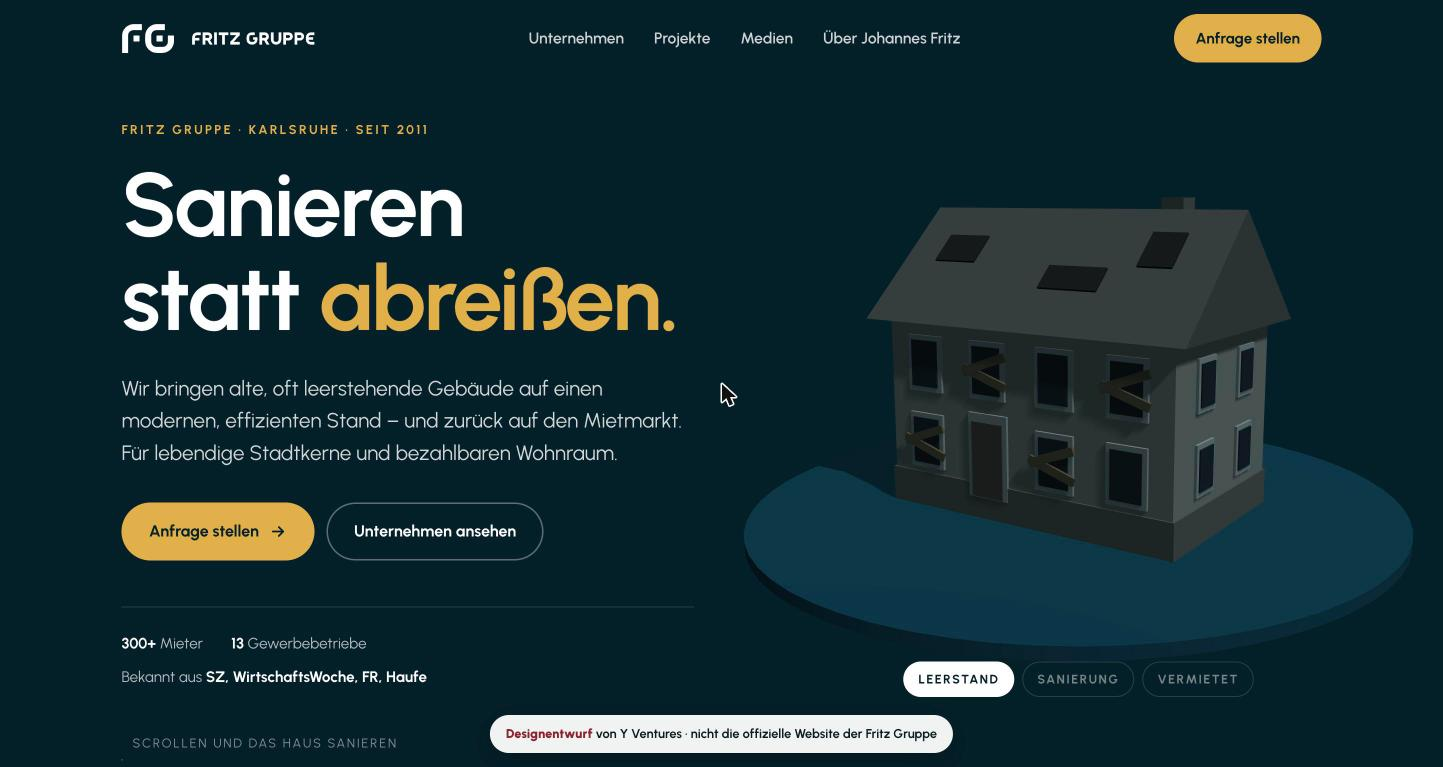
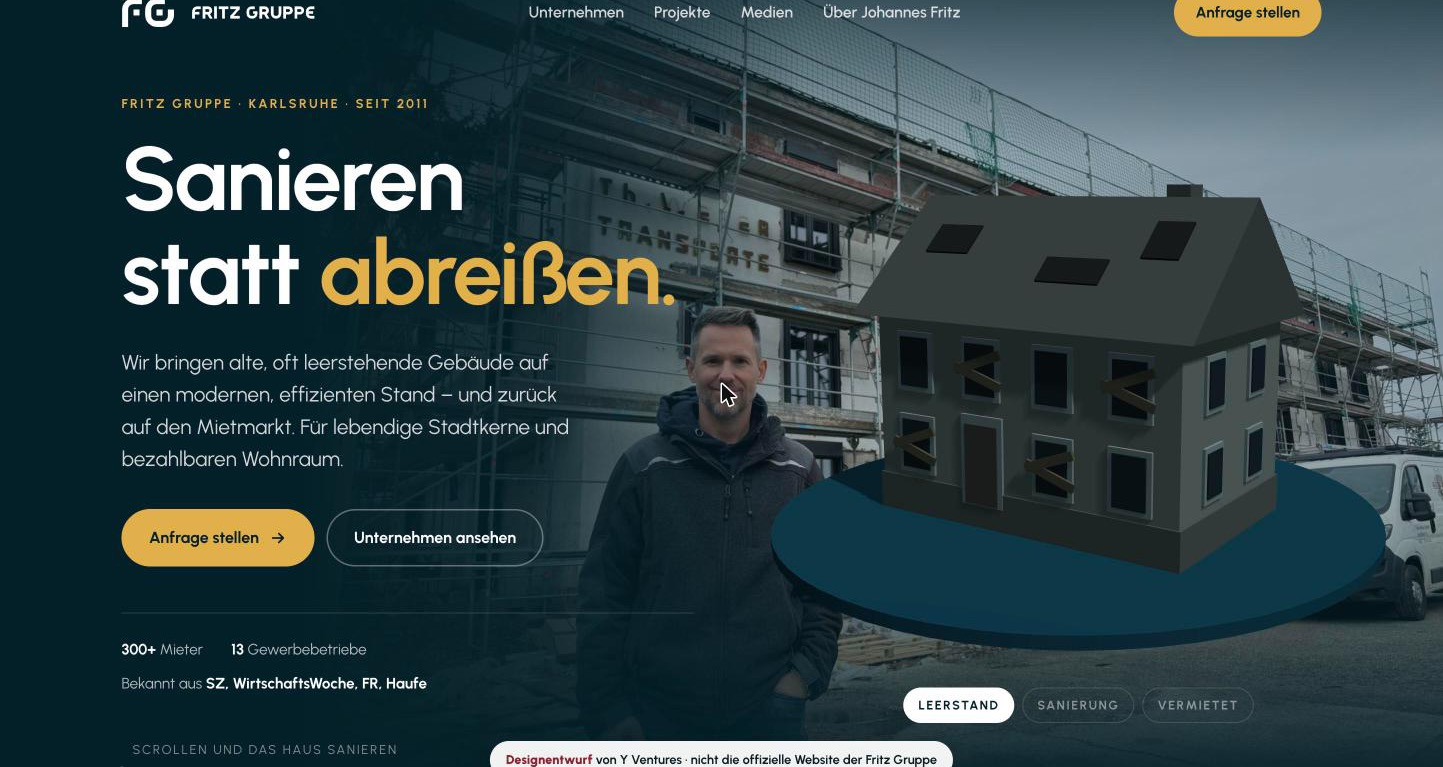
Entwurf: Startfoto als Hintergrund hinter Ueberschrift und 3D-Haus

diff --git a/vorschau/index.html b/vorschau/index.html
@@ -45,14 +45,16 @@ p{text-wrap:pretty}
 
 /* Story: Hero + 3D */
 .story{position:relative;display:grid;grid-template-columns:minmax(0,1fr) minmax(0,1.05fr);gap:20px}
-.story-text{padding-left:max(20px,calc((100vw - 1200px)/2))}
-.stage{position:sticky;top:0;height:100vh;height:100svh}
+.story-text{padding-left:max(20px,calc((100vw - 1200px)/2));position:relative;z-index:1}
+.herobg{position:absolute;top:0;left:21%;right:0;height:100vh;height:100svh;z-index:0;background:url(assets/hero-baustelle.jpg) 50% 30%/cover no-repeat;pointer-events:none}
+.herobg::after{content:"";position:absolute;inset:0;background:linear-gradient(0deg,var(--petrol) 0%,rgba(4,32,41,0) 34%),linear-gradient(180deg,rgba(4,32,41,.75) 0%,rgba(4,32,41,0) 22%),linear-gradient(90deg,var(--petrol) 0%,rgba(4,32,41,.84) 22%,rgba(4,32,41,.34) 44%,rgba(4,32,41,.4) 100%)}
+.stage{position:sticky;top:0;height:100vh;height:100svh;z-index:1}
 .stage canvas{width:100%;height:100%;display:block}
 .stage-label{position:absolute;left:50%;bottom:70px;transform:translateX(-50%);display:flex;gap:8px;font-size:.78rem;font-weight:700;letter-spacing:.12em;text-transform:uppercase}
 .stage-label span{padding:7px 14px;border-radius:999px;border:1px solid var(--line);color:rgba(255,255,255,.45);transition:all .4s;white-space:nowrap}
 .stage-label span.on{background:#fff;color:var(--petrol);border-color:#fff}
 .hero{min-height:100vh;min-height:100svh;display:flex;flex-direction:column;justify-content:center;padding:120px 0 60px}
-.hero p.lead{font-size:clamp(1.1rem,1.5vw,1.3rem);max-width:33em;margin:26px 0 34px;color:rgba(255,255,255,.82)}
+.hero p.lead{font-size:clamp(1.1rem,1.5vw,1.3rem);max-width:24em;text-shadow:0 1px 14px rgba(4,32,41,.7);margin:26px 0 34px;color:rgba(255,255,255,.82)}
 .hero .cta{display:flex;flex-wrap:wrap;gap:12px}
 .hero .proof{display:flex;flex-wrap:wrap;gap:10px 28px;margin-top:46px;padding-top:24px;border-top:1px solid var(--line);font-size:.95rem;color:rgba(255,255,255,.7)}
 .hero .proof b{color:#fff;font-weight:700}
@@ -68,6 +70,9 @@ p{text-wrap:pretty}
 @keyframes hint{0%{transform:scaleY(0);transform-origin:top}50%{transform:scaleY(1);transform-origin:top}51%{transform-origin:bottom}100%{transform:scaleY(0);transform-origin:bottom}}
 @media(max-width:860px){
   .story{display:flex;flex-direction:column}
+  .herobg{left:0;background-position:42% 20%}
+  .herobg::after{background:linear-gradient(0deg,var(--petrol) 0%,rgba(4,32,41,.55) 45%,rgba(4,32,41,.8) 100%)}
+  .hero,.step{position:relative;z-index:1}
   .story-text{display:contents}
   .hero{order:0}.stage{order:1}.step{order:2}
   .stage{height:44svh;top:58px;z-index:2;background:linear-gradient(var(--petrol) 86%,transparent)}
@@ -236,6 +241,7 @@ footer nav{display:flex;gap:24px}
 
 <main id="top">
 <div class="story" id="story">
+  <div class="herobg" aria-hidden="true"></div>
   <div class="story-text">
     <div class="hero">
       <span class="eyebrow">Fritz Gruppe · Karlsruhe · seit 2011</span>
@@ -528,7 +534,7 @@ const house = new THREE.Group();
 scene.add(house);
 const W = 4.6, H = 2.7, D = 2.8;
 
-const ground = new THREE.Mesh(new THREE.CylinderGeometry(4.7, 4.7, .16, 64), mat(0x0e3a47, {flatShading:false}));
+const ground = new THREE.Mesh(new THREE.CylinderGeometry(4.1, 4.1, .16, 64), mat(0x0e3a47, {flatShading:false}));
 ground.position.y = -.08; ground.receiveShadow = true; house.add(ground);
 
 const mWall = mat(0x7a756c), mSockel = mat(0x55514b), mRoof = mat(0x4b4642);
@@ -644,6 +650,7 @@ function size(){
   const narrow = w/h < 1;
   camera.fov = narrow ? 44 : 32;
   camera.position.set(0, narrow ? 4.2 : 4.6, narrow ? 13.5 : 14.5);
+  house.position.x = narrow ? 0 : 1.1;
   camera.lookAt(0, 1.55, 0);
   camera.updateProjectionMatrix();
 }

diff --git a/index.html b/index.html
@@ -173,7 +173,7 @@ footer p + p{margin-top:8px}
   <div class="sec-head"><p class="label">Entwurf</p><h2>Fertig gebaut: Sanieren statt abreißen, zum Anfassen</h2>
   <p>Ihre Philosophie wird zur Hauptsache. Beim Scrollen verwandelt sich ein leerstehender Altbau Schritt für Schritt: Gerüst, neue Fassade, Fensterläden, Solaranlage, Licht in den Fenstern. Alle Texte, Zahlen und Fotos stammen von Ihrer heutigen Seite.</p></div>
   <div class="pair">
-    <figure><img src="img/entwurf-start.jpg" alt="Entwurf: Startbildschirm mit Überschrift Sanieren statt abreißen und 3D-Haus im Leerstand" width="1443" height="767"><figcaption>Erster Bildschirm: Aussage, Knopf, Belege und das Haus vor der Sanierung.</figcaption></figure>
+    <figure><img src="img/entwurf-start.jpg" alt="Entwurf: Startbildschirm mit Überschrift Sanieren statt abreißen und 3D-Haus im Leerstand" width="1443" height="767"><figcaption>Erster Bildschirm: Ihr Baustellenfoto als Hintergrund, davor Aussage, Knopf, Belege und das Haus vor der Sanierung.</figcaption></figure>
     <figure><img src="img/entwurf-saniert.jpg" alt="Entwurf: dasselbe 3D-Haus saniert, mit Solaranlage und Fensterläden" width="1443" height="767"><figcaption>Drei Scroll-Schritte später: dasselbe Haus, saniert und vermietet.</figcaption></figure>
   </div>
   <ul class="what">
